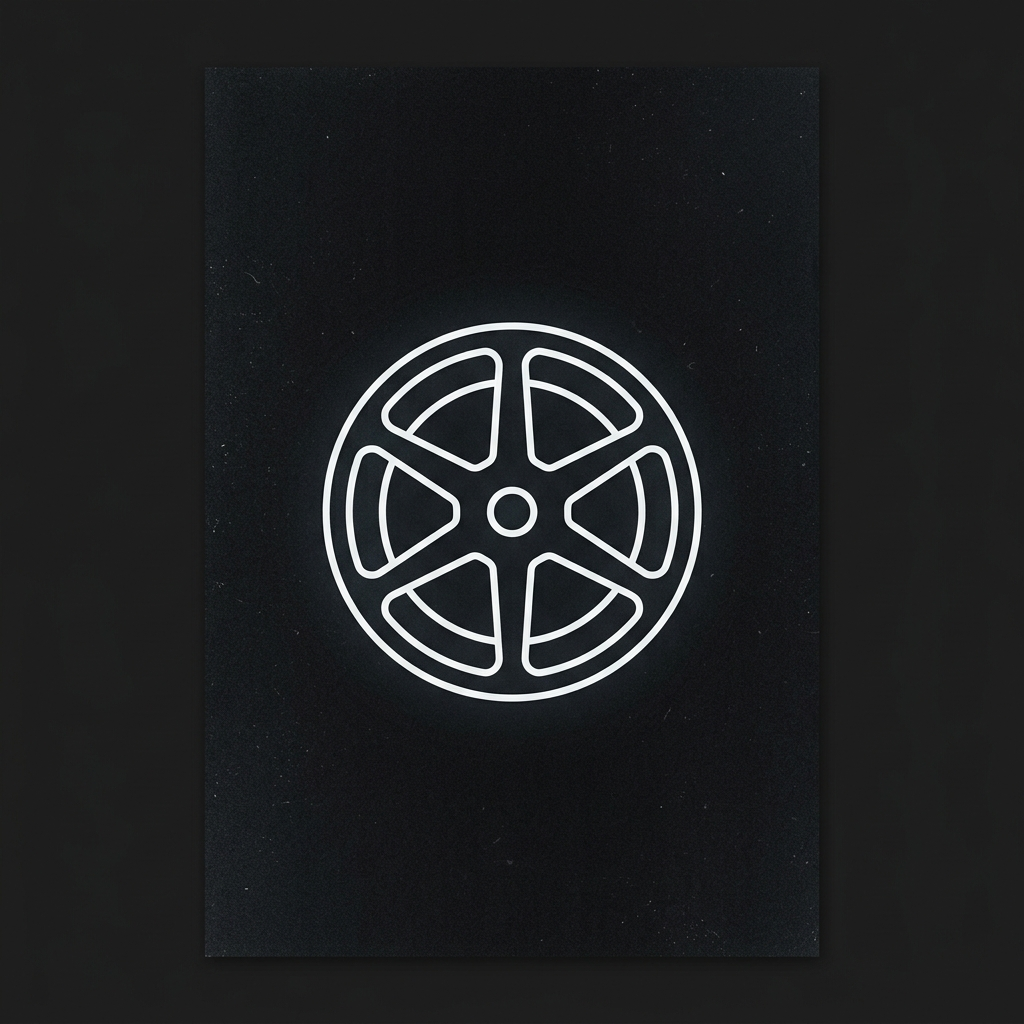
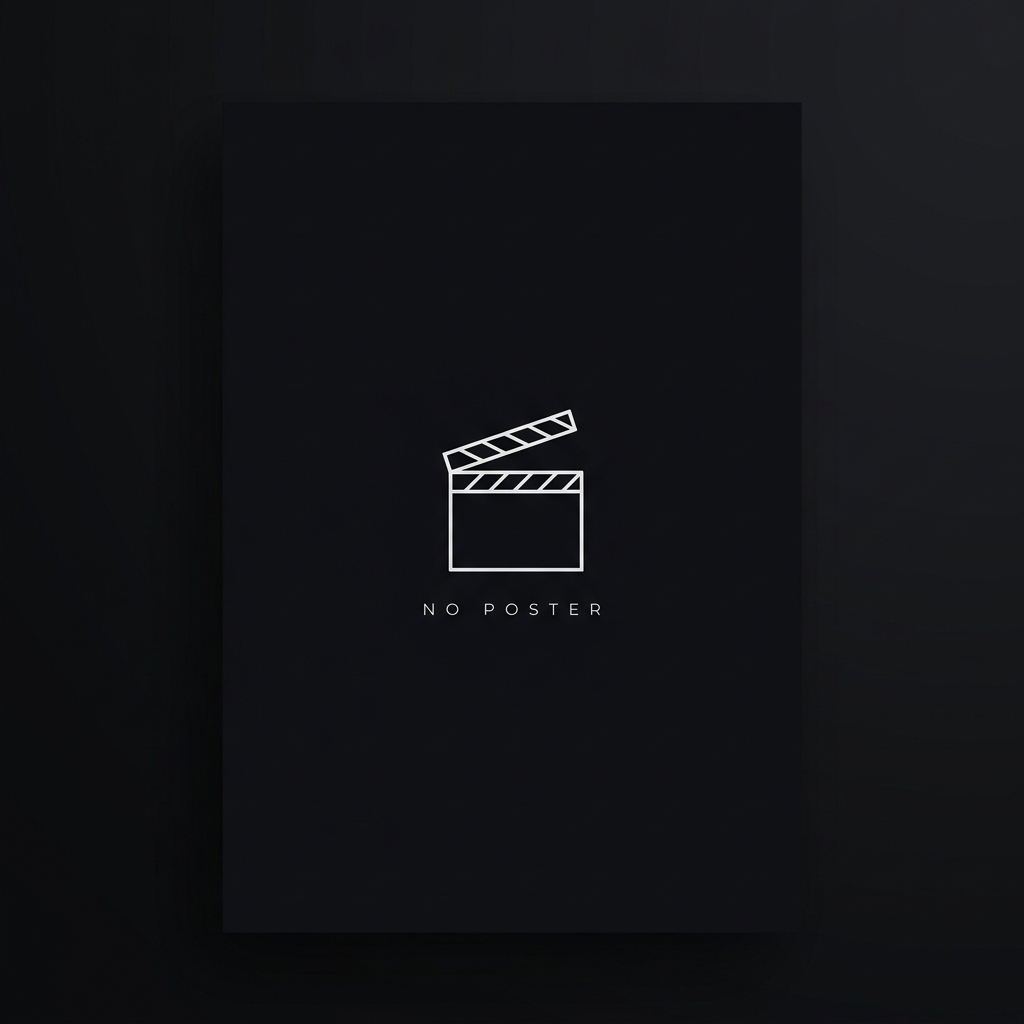
feat: use server-side TMDB proxy for client queries and set premium clapperboard poster placeholder

Changed region(s): [[0.3125, 0.3125, 0.6875, 0.6875], [0.1875, 0.7188, 0.3125, 0.9375], [0.1875, 0.4062, 0.2188, 0.4375]]

diff --git a/src/app/api/tmdb/route.ts b/src/app/api/tmdb/route.ts
@@ -1,0 +1,47 @@
+import { NextRequest, NextResponse } from "next/server";
+
+const API_BASE_URL = "https://api.themoviedb.org/3";
+const TMDB_API_KEY = process.env.TMDB_API_KEY || "8088221e5df33c3fa7b69dc0c2219d36";
+
+export async function GET(request: NextRequest) {
+  const { searchParams } = new URL(request.url);
+  const path = searchParams.get("path");
+
+  if (!path) {
+    return NextResponse.json({ error: "Missing path parameter" }, { status: 400 });
+  }
+
+  // Build the target TMDB query params
+  const targetParams = new URLSearchParams();
+  targetParams.append("api_key", TMDB_API_KEY);
+
+  // Forward all other search params except "path"
+  searchParams.forEach((value, key) => {
+    if (key !== "path") {
+      targetParams.append(key, value);
+    }
+  });
+
+  const url = `${API_BASE_URL}${path}?${targetParams.toString()}`;
+
+  try {
+    const res = await fetch(url, {
+      headers: {
+        accept: "application/json",
+      },
+    });
+
+    if (!res.ok) {
+      return NextResponse.json(
+        { error: `TMDB request failed with status: ${res.status}` },
+        { status: res.status }
+      );
+    }
+
+    const data = await res.json();
+    return NextResponse.json(data);
+  } catch (error) {
+    console.error("TMDB Proxy request failed:", error);
+    return NextResponse.json({ error: "Internal server error" }, { status: 500 });
+  }
+}

diff --git a/src/lib/services/tmdb.ts b/src/lib/services/tmdb.ts
@@ -13,10 +13,7 @@ import {
 } from "./mockData";
 
 const API_BASE_URL = "https://api.themoviedb.org/3";
-const TMDB_API_KEY =
-  process.env.NEXT_PUBLIC_TMDB_API_KEY ||
-  process.env.TMDB_API_KEY ||
-  "";
+const TMDB_API_KEY = process.env.TMDB_API_KEY || "";
 const IMAGE_BASE_URL = process.env.NEXT_PUBLIC_TMDB_IMAGE_BASE_URL || "https://image.tmdb.org/t/p";
 
 // Helpers to format image paths
@@ -28,6 +25,23 @@ export const getImagePath = (path: string | null, size: "original" | "w500" | "w
 
 // Generic fetch wrapper with retries and Next.js ISR cache configs
 async function fetchFromTMDB<T>(endpoint: string, params: Record<string, string> = {}, revalidate = 3600): Promise<T> {
+  const isClient = typeof window !== "undefined";
+
+  if (isClient) {
+    const queryParams = new URLSearchParams({
+      path: endpoint,
+      ...params,
+    });
+    const proxyUrl = `/api/tmdb?${queryParams.toString()}`;
+    
+    const response = await fetch(proxyUrl);
+    if (!response.ok) {
+      throw new Error(`Proxy TMDB request failed with status: ${response.status}`);
+    }
+    return (await response.json()) as T;
+  }
+
+  // Server-side direct request logic
   if (!TMDB_API_KEY || TMDB_API_KEY.includes("your_")) {
     throw new Error("TMDB API key is not configured.");
   }